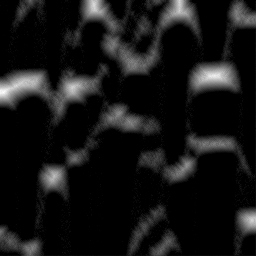
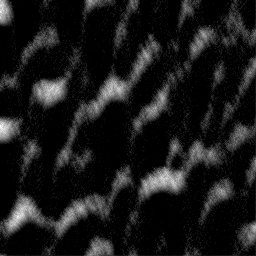
small bug fix

diff --git a/Code/Source/desert-simulation.cpp b/Code/Source/desert-simulation.cpp
@@ -5,6 +5,7 @@
 
 // File scope variables
 #define OMP_NUM_THREAD 8
+#define MAX_BOUNCE 3
 
 static float abrasionEpsilon = 0.5;
 static Vector2i next8[8] = { Vector2i(1, 0), Vector2i(1, 1), Vector2i(0, 1), Vector2i(-1, 1), Vector2i(-1, 0), Vector2i(-1, -1), Vector2i(0, -1), Vector2i(1, -1) };
@@ -77,7 +78,7 @@ void DuneSediment::SimulationStepWorldSpace()
 		return;
 	}
 	// Vegetation can retain sediments in the lifting process
-	if (Random::Uniform() < vegetation[start1D])
+	if (vegetationOn && Random::Uniform() < vegetation[start1D])
 	{
 		StabilizeSedimentRelative(startI, startJ);
 		return;
@@ -92,7 +93,7 @@ void DuneSediment::SimulationStepWorldSpace()
 	int destJ = startJ;
 	Vector2 pos = bedrock.ArrayVertex(destI, destJ);
 	int bounce = 0;
-	while (true)
+	while (bounce < MAX_BOUNCE)
 	{
 		// Compute wind at the current cell
 		ComputeWindAtCell(destI, destJ, windDir);
@@ -120,14 +121,14 @@ void DuneSediment::SimulationStepWorldSpace()
 			break;
 		}
 		// Sandy cell - 60% chance of deposition (if vegetation == 0.0)
-		else if (sediments.Get(destID) > 0.0 && p < 0.6 + (vegetation.Get(destID) * 0.4))
+		else if (sediments.Get(destID) > 0.0 && p < 0.6 + (vegetationOn ? (vegetation.Get(destID) * 0.4) : 0.0))
 		{
 #pragma omp atomic
 			sediments[destID] += matterToMove;
 			break;
 		}
 		// Empty cell - 40% chance of deposition (if vegetation == 0.0)
-		else if (sediments.Get(destID) <= 0.0 && p < 0.4 + (vegetation.Get(destID) * 0.6))
+		else if (sediments.Get(destID) <= 0.0 && p < 0.4 + (vegetationOn ? (vegetation.Get(destID) * 0.6) : 0.0))
 		{
 #pragma omp atomic
 			sediments[destID] += matterToMove;
@@ -237,7 +238,7 @@ void DuneSediment::PerformAbrasionOnCell(int i, int j, const Vector2& windDir)
 	int id = ToIndex1D(i, j);
 
 	// Vegetation protects from abrasion
-	float v = vegetation.Get(id);
+	float v = vegetationOn ? vegetation.Get(id) : 0.0f;
 
 	// Bedrock resistance [0, 1] (1.0 equals to weak, 0.0 equals to hard)
 	// Here with a simple sin() function, but anything could be used: texture, noise, construction trees...

diff --git a/Code/Source/main.cpp b/Code/Source/main.cpp
@@ -20,7 +20,7 @@ int main()
 	// Transverse dunes are created under unimodal wind, as well as medium to high sand supply.
 	// They are basically the default dune type obtained by any basic simulation scenario.
 	std::cout << "Transverse dunes" << std::endl;
-	DuneSediment dune = DuneSediment(Box2D(Vector2(0), Vector2(256)), 2.0, 5.0, Vector2(3, 0));
+	DuneSediment dune = DuneSediment(Box2D(Vector2(0), Vector2(256)), 3.0, 5.0, Vector2(3, 0));
 	for (int i = 0; i < 300; i++)
 		dune.SimulationStepMultiThreadAtomic();
 	dune.ExportJPG("transverse.jpg");
@@ -28,7 +28,7 @@ int main()
 
 	// Barchan dunes appears under similar wind conditions, but lower sand supply.
 	std::cout << "Barchan dunes" << std::endl;
-	dune = DuneSediment(Box2D(Vector2(0), Vector2(256)), 0.5, 0.5, Vector2(3, 0));
+	dune = DuneSediment(Box2D(Vector2(0), Vector2(256)), 0.5, 2.0, Vector2(5, 0));
 	for (int i = 0; i < 300; i++)
 		dune.SimulationStepMultiThreadAtomic();
 	dune.ExportJPG("barchan.jpg");

diff --git a/Code/Source/desert.cpp b/Code/Source/desert.cpp
@@ -8,7 +8,6 @@
 #include "stb_image_write.h"
 
 
-
 /*!
 \brief Default constructor.
 */
@@ -59,6 +58,10 @@ DuneSediment::DuneSediment(const Box2D& bbox, float rMin, float rMax, const Vect
 			sediments.Set(i, j, Random::Uniform(rMin, rMax));
 		}
 	}
+	
+	// By default, vegetation influence and abrasion are turned off.
+	vegetationOn = false;
+	abrasionOn = false;
 
 	Vector2 celldiagonal = Vector2((box.TopRight()[0] - box.BottomLeft()[0]) / (nx - 1), (box.TopRight()[1] - box.BottomLeft()[1]) / (ny - 1));
 	cellSize = Box2D(box.BottomLeft(), box.BottomLeft() + celldiagonal).Size().x; // We only consider squared heightfields

diff --git a/README.md b/README.md
@@ -23,7 +23,7 @@ There is no dependency. Running the program will output 3 .obj files which can t
 * Visual Studio 2019: double click on the solution in ./VS2022/ and Ctrl + F5 to run
 * Ubuntu 16.04: cd ./G++/ && make && make run
 
-In you can't compile or run the code, the resulting obj/jpg files are available in the Results/ folder in the repo.
+In you can't compile or run the code, the resulting jpg files are available in the Results/ folder in the repo.
 
 ### Citation
 You can use this code in any way you want, however please credit the original article:
